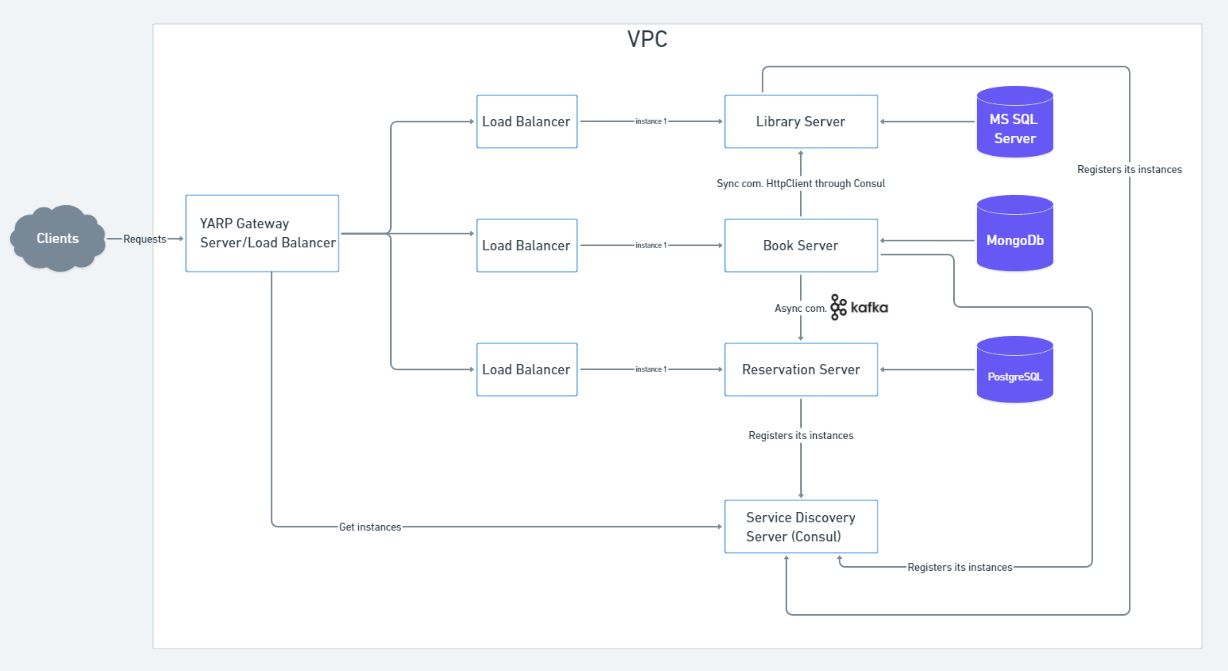
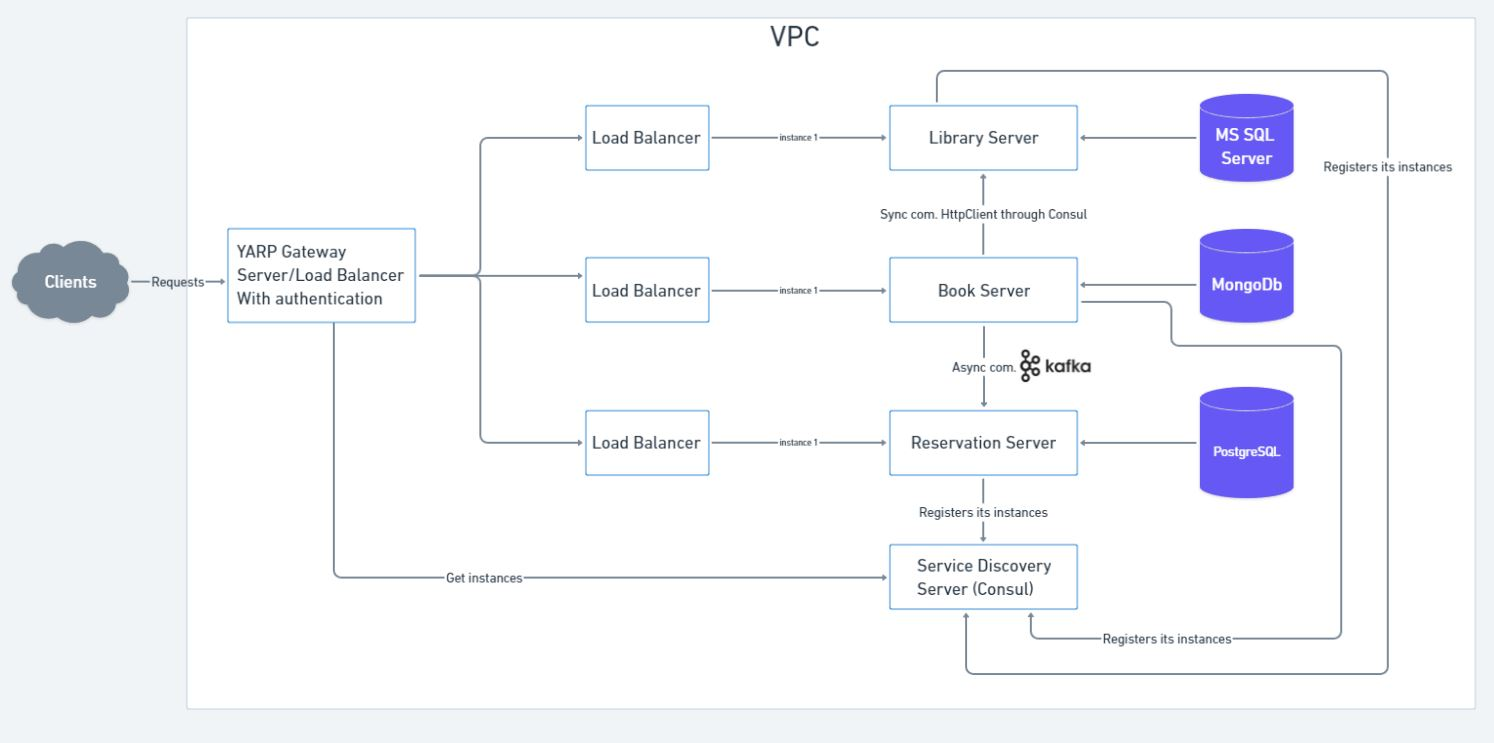
Added authentication in the Gateway server for all the services

Changed region(s): [[0.0, 0.0894, 0.9902, 0.924], [0.8974, 0.4769, 0.9283, 0.8346], [0.4951, 0.0298, 0.557, 0.0596]]

diff --git a/Gateway/Service/ExtractEmailProvider.cs b/Gateway/Service/ExtractEmailProvider.cs
@@ -1,0 +1,50 @@
+using Microsoft.AspNetCore.Identity;
+using Yarp.ReverseProxy.Transforms;
+using Yarp.ReverseProxy.Transforms.Builder;
+
+namespace Gateway.Service
+{
+    public class ExtractEmailProvider : ITransformProvider
+    {
+        //private readonly IHttpContextAccessor _httpContextAccessor;
+
+        //public ExtractEmailProvider(IHttpContextAccessor httpContextAccessor)
+        //{
+        //    _httpContextAccessor = httpContextAccessor;
+        //}
+        private readonly UserManager<IdentityUser> _userManager;
+
+        public ExtractEmailProvider(UserManager<IdentityUser> userManager)
+        {
+            _userManager = userManager;
+        }
+
+        public void Apply(TransformBuilderContext context)
+        {
+            context.AddRequestTransform(async transformContext =>
+            {
+                //var httpContext = _httpContextAccessor.HttpContext;
+                //if (httpContext != null) return;
+
+                //var userManager = httpContext.RequestServices.GetRequiredService<UserManager<IdentityUser>>();
+
+                //var user = await _userManager.GetUserAsync(httpContext.User);
+                var user = await _userManager.GetUserAsync(transformContext.HttpContext.User);
+                if (user != null)
+                {
+                    transformContext.ProxyRequest.Headers.Add("X-User-Email", user.Email);
+                }
+            });
+        }
+
+        public void ValidateCluster(TransformClusterValidationContext context)
+        {
+            
+        }
+
+        public void ValidateRoute(TransformRouteValidationContext context)
+        {
+            
+        }
+    }
+}

diff --git a/Library_Rest_API/Program.cs b/Library_Rest_API/Program.cs
@@ -5,8 +5,10 @@ using Library_Rest_API.Persistence;
 using Library_Rest_API.Persistence.Repository;
 using Library_Rest_API.Services;
 using Microsoft.EntityFrameworkCore;
+using Microsoft.OpenApi.Models;
 using Steeltoe.Discovery.Client;
 using Steeltoe.Discovery.Consul;
+using Swashbuckle.AspNetCore.Filters;
 
 var builder = WebApplication.CreateBuilder(args);
 
@@ -15,7 +17,17 @@ var builder = WebApplication.CreateBuilder(args);
 builder.Services.AddControllers();
 // Learn more about configuring Swagger/OpenAPI at https://aka.ms/aspnetcore/swashbuckle
 builder.Services.AddEndpointsApiExplorer();
-builder.Services.AddSwaggerGen();
+builder.Services.AddSwaggerGen(options =>
+{
+    options.AddSecurityDefinition("oauth2", new OpenApiSecurityScheme
+    {
+        In = ParameterLocation.Header,
+        Name = "Authorization",
+        Type = SecuritySchemeType.ApiKey
+    });
+
+    options.OperationFilter<SecurityRequirementsOperationFilter>();
+});
 
 builder.Services.AddScoped<ILibraryFactory, LibraryFactoryImpl>();
 builder.Services.AddScoped<ILibraryRepository, LibraryRepositoryImpl>();

diff --git a/Reservation_API/Program.cs b/Reservation_API/Program.cs
@@ -1,8 +1,10 @@
 using Microsoft.EntityFrameworkCore;
+using Microsoft.OpenApi.Models;
 using Reservation_API.Repository;
 using Reservation_API.Services;
 using Steeltoe.Discovery.Client;
 using Steeltoe.Discovery.Consul;
+using Swashbuckle.AspNetCore.Filters;
 
 var builder = WebApplication.CreateBuilder(args);
 
@@ -11,7 +13,17 @@ var builder = WebApplication.CreateBuilder(args);
 builder.Services.AddControllers();
 // Learn more about configuring Swagger/OpenAPI at https://aka.ms/aspnetcore/swashbuckle
 builder.Services.AddEndpointsApiExplorer();
-builder.Services.AddSwaggerGen();
+builder.Services.AddSwaggerGen(options =>
+{
+    options.AddSecurityDefinition("oauth2", new OpenApiSecurityScheme
+    {
+        In = ParameterLocation.Header,
+        Name = "Authorization",
+        Type = SecuritySchemeType.ApiKey
+    });
+
+    options.OperationFilter<SecurityRequirementsOperationFilter>();
+});
 
 builder.Services.AddDbContext<ReservationDbContext>(options => options.UseNpgsql(builder.Configuration.GetConnectionString("reservations")));
 

diff --git a/Books_API/Program.cs b/Books_API/Program.cs
@@ -3,9 +3,11 @@ using Books_API.Persistence;
 using Books_API.Repository;
 using Books_API.Services;
 using Microsoft.EntityFrameworkCore;
+using Microsoft.OpenApi.Models;
 using Steeltoe.Common.Http.Discovery;
 using Steeltoe.Discovery.Client;
 using Steeltoe.Discovery.Consul;
+using Swashbuckle.AspNetCore.Filters;
 
 var builder = WebApplication.CreateBuilder(args);
 
@@ -14,7 +16,17 @@ var builder = WebApplication.CreateBuilder(args);
 builder.Services.AddControllers();
 // Learn more about configuring Swagger/OpenAPI at https://aka.ms/aspnetcore/swashbuckle
 builder.Services.AddEndpointsApiExplorer();
-builder.Services.AddSwaggerGen();
+builder.Services.AddSwaggerGen(options =>
+{
+    options.AddSecurityDefinition("oauth2", new OpenApiSecurityScheme
+    {
+        In = ParameterLocation.Header,
+        Name = "Authorization",
+        Type = SecuritySchemeType.ApiKey
+    });
+
+    options.OperationFilter<SecurityRequirementsOperationFilter>();
+});
 
 builder.Services.AddServiceDiscovery(o => o.UseConsul());
 

diff --git a/Gateway/Program.cs b/Gateway/Program.cs
@@ -1,3 +1,8 @@
+using Gateway.Database;
+using Gateway.Service;
+using Microsoft.AspNetCore.Identity;
+using Microsoft.EntityFrameworkCore;
+
 var builder = WebApplication.CreateBuilder(args);
 
 // Add services to the container.
@@ -11,6 +16,12 @@ builder.Services.AddReverseProxy().LoadFromConfig(builder.Configuration.GetSecti
 
 builder.Services.AddHealthChecks();
 
+builder.Services.AddDbContext<UsersDbContext>(options => options.UseNpgsql(builder.Configuration.GetConnectionString("users")));
+
+// Adding the Auth services
+builder.Services.AddAuthorization();
+builder.Services.AddIdentityApiEndpoints<IdentityUser>().AddEntityFrameworkStores<UsersDbContext>();
+
 var app = builder.Build();
 
 // Configure the HTTP request pipeline.
@@ -19,6 +30,8 @@ if (app.Environment.IsDevelopment())
     app.UseSwagger();
     app.UseSwaggerUI();
 }
+
+app.MapIdentityApi<IdentityUser>();
 
 app.UseAuthorization();
 

diff --git a/Books_API/Controllers/BooksController.cs b/Books_API/Controllers/BooksController.cs
@@ -153,7 +153,8 @@ namespace Books_API.Controllers
         }
 
         [HttpPost("reservations")]
-        public async Task<IActionResult> CreateBookReservation([FromQuery(Name = "book-id")] string _id, [FromBody] ReservationReq reservationReq)
+        public async Task<IActionResult> CreateBookReservation([FromQuery(Name = "book-id")] string _id, 
+            [FromBody] ReservationReq reservationReq)
         {
             if (reservationReq.EndReservationDate < reservationReq.StartReservationDate) return BadRequest("End Date cannot be before Start Date");
             if (reservationReq.UserDetails!.Trim().Length == 0) return BadRequest("User Details are required");

diff --git a/Gateway/Database/UsersDbContext.cs b/Gateway/Database/UsersDbContext.cs
@@ -1,0 +1,9 @@
+using Microsoft.AspNetCore.Identity.EntityFrameworkCore;
+using Microsoft.EntityFrameworkCore;
+
+namespace Gateway.Database
+{
+    public class UsersDbContext(DbContextOptions<UsersDbContext> options) : IdentityDbContext(options)
+    {
+    }
+}
